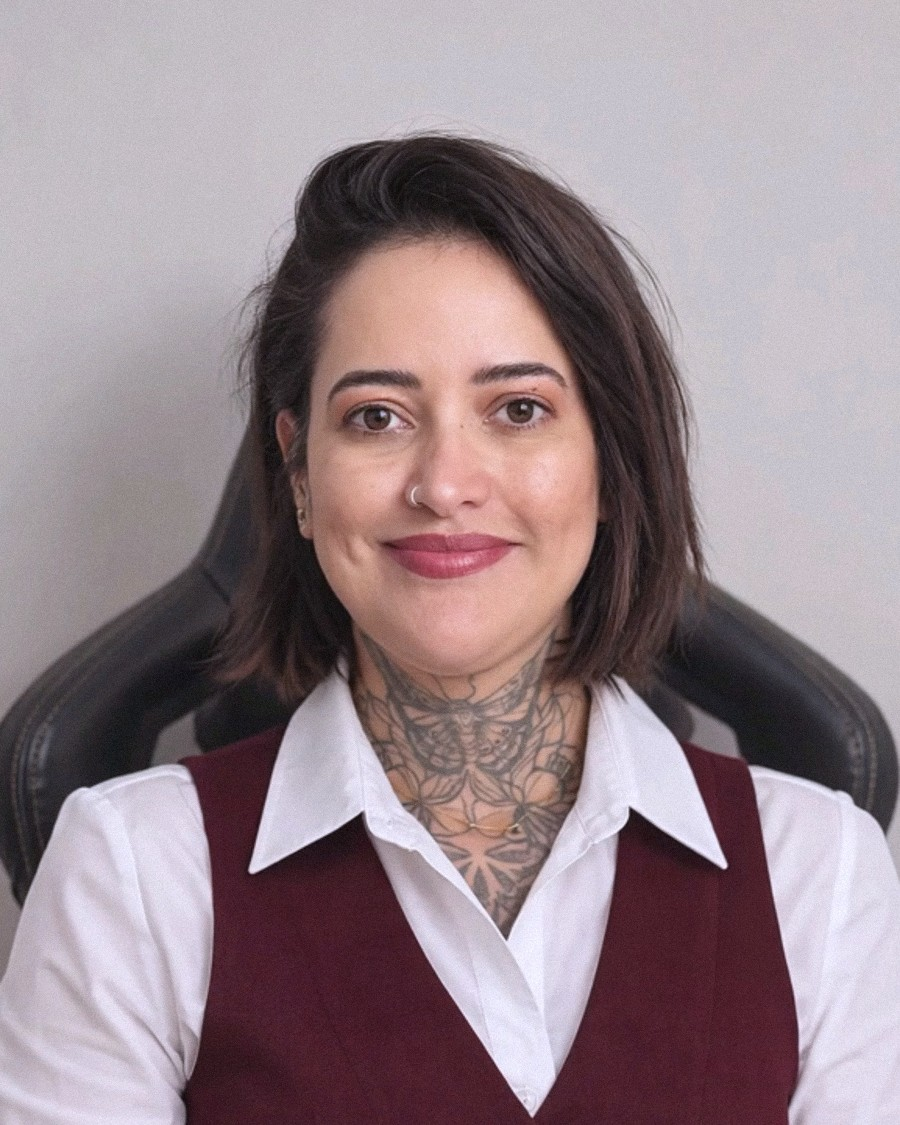
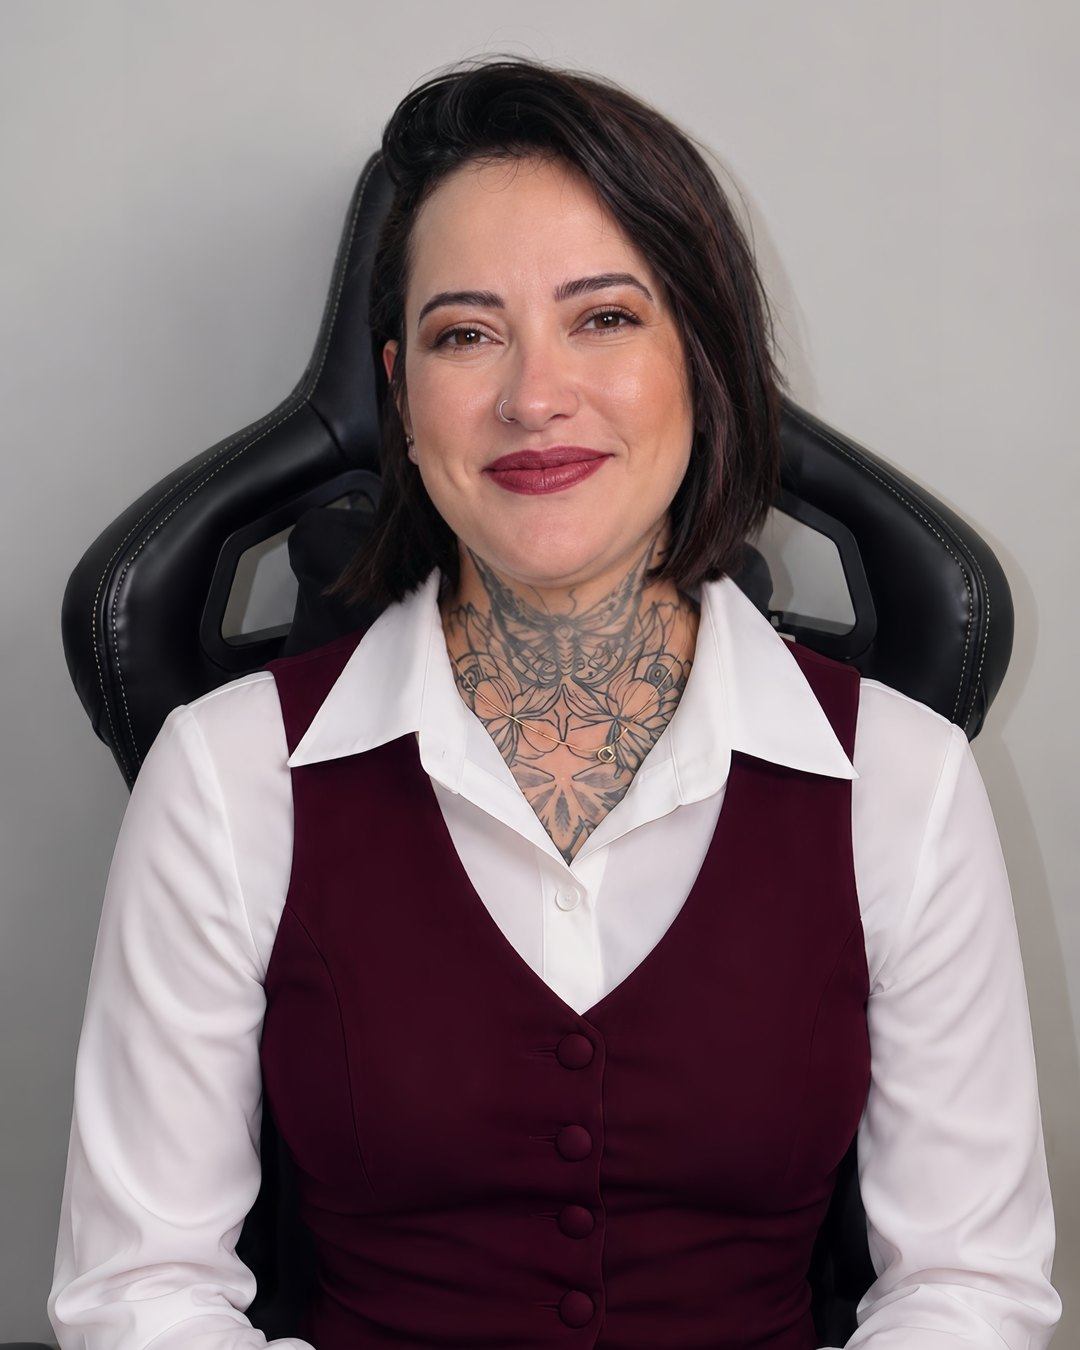
Nova foto da seção Sobre

diff --git a/index.html b/index.html
@@ -587,7 +587,7 @@
     <section id="sobre" class="section" aria-labelledby="titulo-sobre">
       <div class="about-grid">
         <div class="about-img reveal">
-          <img src="./img/ana-fedel-sobre.jpg?v=2026111203" alt="Ana Fedel, nutricionista" loading="lazy" decoding="async" />
+          <img src="./img/ana-fedel-sobre.jpg?v=2026112302" alt="Ana Fedel, nutricionista" loading="lazy" decoding="async" />
           <div class="about-img-accent" aria-hidden="true"></div>
         </div>
         <div class="about-text reveal">
